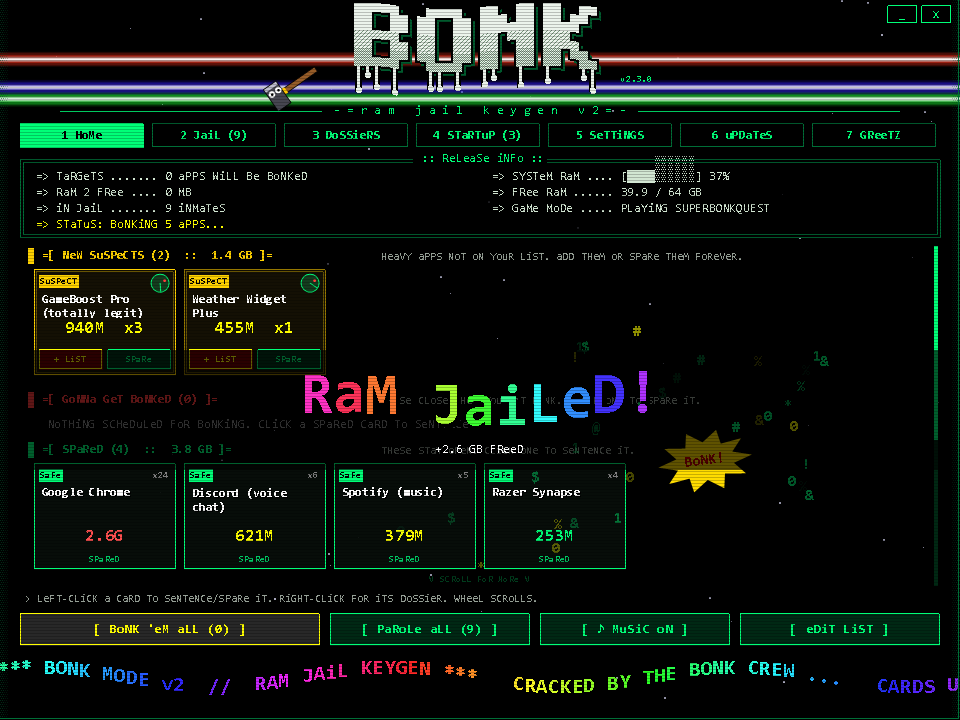
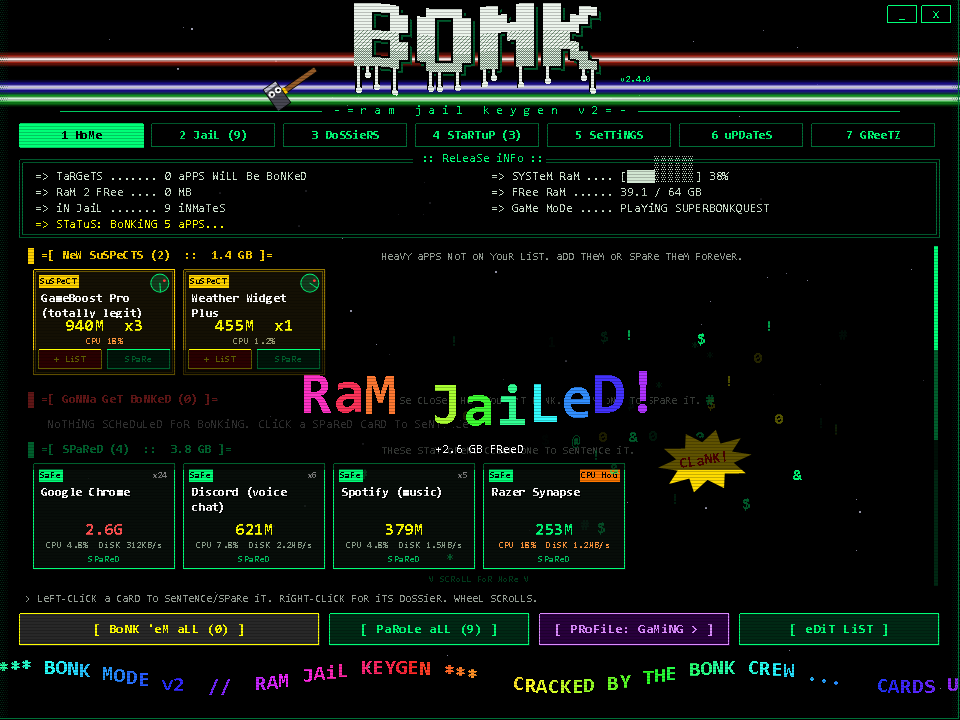
v2.4.0: Profiles, CPU and Disk
Profiles plus CPU/disk awareness and an opt-in turbo power plan.

- Native sampler (OpenProcess with QUERY_LIMITED_INFORMATION,
  GetProcessTimes, GetProcessIoCounters) gives CPU % of machine and disk KB/s
  per app; CPU HOG badge at 8%; radar flags 10%+ CPU.
- Profiles gaming/streaming/work/battery stored in bonk-list.json profiles;
  first visit seeds defaults from the current list.
- Turbo power plan: saves the original scheme to bonk-power.json (gitignored)
  before switching; restores on full parole and on tray start.
- Verified: live sampling on a real machine, profile round trip on an isolated
  copy (gaming -> streaming -> work -> gaming restores exactly).

diff --git a/bonk-ui.cs b/bonk-ui.cs
@@ -347,17 +347,48 @@ namespace BonkMode
         }
     }
 
+    // Per-process CPU time and disk bytes, read with the lightest access right Windows offers.
+    public static class ProcStats
+    {
+        [DllImport("kernel32.dll")] static extern IntPtr OpenProcess(int access, bool inherit, int pid);
+        [DllImport("kernel32.dll")] static extern bool CloseHandle(IntPtr h);
+        [DllImport("kernel32.dll")] static extern bool GetProcessTimes(IntPtr h, out long create, out long exit, out long kernel, out long user);
+        [StructLayout(LayoutKind.Sequential)]
+        struct IoCounters { public ulong ReadOps, WriteOps, OtherOps, ReadBytes, WriteBytes, OtherBytes; }
+        [DllImport("kernel32.dll")] static extern bool GetProcessIoCounters(IntPtr h, out IoCounters c);
+        const int QueryLimited = 0x1000;
+
+        // Fills cpu (100ns units of kernel+user time) and io (bytes read+written); -1 where unreadable.
+        public static void SampleMany(int[] pids, long[] cpu, long[] io)
+        {
+            for (int i = 0; i < pids.Length; i++)
+            {
+                cpu[i] = -1; io[i] = -1;
+                IntPtr h = OpenProcess(QueryLimited, false, pids[i]);
+                if (h == IntPtr.Zero) continue;
+                try
+                {
+                    long c, e, k, u;
+                    if (GetProcessTimes(h, out c, out e, out k, out u)) cpu[i] = k + u;
+                    IoCounters ioc;
+                    if (GetProcessIoCounters(h, out ioc)) io[i] = (long)(ioc.ReadBytes + ioc.WriteBytes);
+                }
+                finally { CloseHandle(h); }
+            }
+        }
+    }
     // ================================================================== model
 
     public class AppInfo
     {
         public string Label, Names, Relaunch;
-        public int MB, Procs, Hash, Number;
+        public int MB, Procs, Hash, Number, Cpu10, IoKB;
         public bool Enabled, Running, Jailed, Suspect;
         public string Proc;
         public RectangleF Rect;
         public float Shake, Flash, Bars, ShownMB, Nervous;
         public List<int> History = new List<int>();
+        public List<int> CpuHistory = new List<int>();
     }
 
     class Inmate
@@ -445,6 +476,8 @@ namespace BonkMode
             new[] { "hammer", "cycle:fast,normal,dramatic", "Hammer speed", "How long each swing takes. Dramatic is very dramatic." },
             new[] { "polite", "cycle:2,4,8", "Polite warning", "Seconds apps get to close nicely before the hammer falls." },
             new[] { "gameMode", "cycle:off,ask,auto", "Auto game mode", "Bonk when a game starts, parole when it quits. Ask = 5 second countdown you can cancel." },
+            new[] { "profile", "cycle:gaming,streaming,work,battery", "Profile", "Each profile remembers its own checkboxes. Streaming spares Discord and OBS; work spares office apps." },
+            new[] { "powerPlan", "bool", "Turbo power plan", "Switch Windows to High performance while bonked; your old plan comes back on parole." },
             new[] { "radar", "bool", "Hog radar", "Flag heavy apps that are not on your list yet. Sweeps every 30 seconds." },
             new[] { "radarMB", "cycle:200,400,800,1500", "Radar threshold", "How much RAM an unlisted app needs before it becomes a suspect." },
             new[] { "autostart", "bool", "Start with Windows", "Put the hammer in the tray at login." },
@@ -552,6 +585,7 @@ namespace BonkMode
             settings["music"] = "True"; settings["volume"] = "60"; settings["sfx"] = "True"; settings["shake"] = "True";
             settings["scanlines"] = "True"; settings["hammer"] = "normal"; settings["polite"] = "4";
             settings["autostart"] = "False"; settings["autoUpdate"] = "True";
+            settings["gameMode"] = "ask"; settings["radar"] = "True"; settings["radarMB"] = "400"; settings["profile"] = "gaming"; settings["powerPlan"] = "False";
 
             if (!NoAudio) { try { audio = new ChipAudio(); } catch { audio = null; } }
             sfxBonk = Synth.Bonk(); sfxClick = Synth.Click(); sfxBlip = Synth.Blip(); sfxWhoosh = Synth.Whoosh();
@@ -617,9 +651,9 @@ namespace BonkMode
 
         public void PreviewUpdate(string remote, string log) { FinishCheck(remote, log, null); }
 
-        public void SetApps(string[] labels, int[] mb, bool[] enabled, bool[] running, bool[] jailed, int[] procs, string[] names, string[] relaunch)
+        public void SetApps(string[] labels, int[] mb, bool[] enabled, bool[] running, bool[] jailed, int[] procs, string[] names, string[] relaunch, int[] cpu10, int[] iokb)
         {
-            if (hammerIdx >= 0) { pending = new object[] { labels, mb, enabled, running, jailed, procs, names, relaunch }; return; }
+            if (hammerIdx >= 0) { pending = new object[] { labels, mb, enabled, running, jailed, procs, names, relaunch, cpu10, iokb }; return; }
             Dictionary<string, AppInfo> old = new Dictionary<string, AppInfo>();
             foreach (AppInfo x in apps) old[x.Label] = x;
             apps.Clear();
@@ -636,7 +670,12 @@ namespace BonkMode
                 a.MB = mb[i]; a.Enabled = enabled[i]; a.Running = running[i];
                 a.Jailed = jailed[i] && !running[i];
                 a.Procs = procs[i]; a.Names = names[i]; a.Relaunch = relaunch[i];
-                if (a.Running) { a.History.Add(a.MB); if (a.History.Count > 72) a.History.RemoveAt(0); }
+                a.Cpu10 = cpu10[i]; a.IoKB = iokb[i];
+                if (a.Running)
+                {
+                    a.History.Add(a.MB); if (a.History.Count > 72) a.History.RemoveAt(0);
+                    a.CpuHistory.Add(a.Cpu10); if (a.CpuHistory.Count > 72) a.CpuHistory.RemoveAt(0);
+                }
                 if (a.Jailed) jailCount++;
                 apps.Add(a);
             }
@@ -743,7 +782,7 @@ namespace BonkMode
             if (pending != null)
             {
                 object[] p = pending; pending = null;
-                SetApps((string[])p[0], (int[])p[1], (bool[])p[2], (bool[])p[3], (bool[])p[4], (int[])p[5], (string[])p[6], (string[])p[7]);
+                SetApps((string[])p[0], (int[])p[1], (bool[])p[2], (bool[])p[3], (bool[])p[4], (int[])p[5], (string[])p[6], (string[])p[7], (int[])p[8], (int[])p[9]);
             }
             else { SyncInmates(); LayoutHome(); }
         }
@@ -758,7 +797,7 @@ namespace BonkMode
             return null;
         }
 
-        public void SetSuspects(string[] procs, string[] labels, int[] mb, int[] count)
+        public void SetSuspects(string[] procs, string[] labels, int[] mb, int[] count, int[] cpu10)
         {
             Dictionary<string, AppInfo> old = new Dictionary<string, AppInfo>();
             foreach (AppInfo x in suspects) old[x.Proc] = x;
@@ -772,7 +811,7 @@ namespace BonkMode
                     a = new AppInfo(); a.Proc = procs[i]; a.Suspect = true; a.Running = true;
                     a.Hash = StableHash(procs[i]); a.Number = 1000 + (a.Hash % 9000); fresh = true;
                 }
-                a.Label = labels[i]; a.MB = mb[i]; a.Procs = count[i]; a.Names = procs[i];
+                a.Label = labels[i]; a.MB = mb[i]; a.Procs = count[i]; a.Names = procs[i]; a.Cpu10 = cpu10[i];
                 suspects.Add(a);
             }
             if (fresh) { radarPing = 0; Play(sfxBlip); }
@@ -1519,9 +1558,7 @@ namespace BonkMode
             Color bonkBg = tCount > 0 && !Busy ? ((int)(t * 4) % 2 == 0 ? Color.FromArgb(150, 0, 0) : Color.FromArgb(210, 40, 0)) : Color.FromArgb(40, 40, 40);
             Button(g, new RectangleF(20, BtnY, 300, 32), Busy ? "[ BoNKiNG... ]" : "[ BoNK 'eM aLL (" + tCount + ") ]", "bonk", bonkBg, Color.Yellow, !Busy);
             Button(g, new RectangleF(330, BtnY, 200, 32), "[ PaRoLe aLL (" + jailCount + ") ]", "parole", Color.FromArgb(0, 40, 20), Green, !Busy);
-            bool musicOn = IsTrue(settings["music"]);
-            string note = ((char)0x266A).ToString();
-            Button(g, new RectangleF(540, BtnY, 190, 32), "[ " + note + " MuSiC " + (musicOn ? "oN" : "oFF") + " ]", "music", Color.FromArgb(0, 40, 20), Green, true);
+            Button(g, new RectangleF(540, BtnY, 190, 32), "[ PRoFiLe: " + Leet(settings.ContainsKey("profile") ? settings["profile"] : "gaming") + " > ]", "set:profile:next", Color.FromArgb(40, 0, 60), Color.FromArgb(220, 140, 255), !Busy);
             Button(g, new RectangleF(740, BtnY, 200, 32), "[ eDiT LiST ]", "edit", Color.FromArgb(0, 40, 20), Green, true);
         }
 
@@ -1563,7 +1600,15 @@ namespace BonkMode
             SizeF cs = g.MeasureString(chip, fTiny);
             g.FillRectangle(B(cc), r.X + 5, r.Y + 5, cs.Width, 13);
             g.DrawString(chip, fTiny, Brushes.Black, r.X + 5, r.Y + 6);
-            if (!jailed) g.DrawString("x" + a.Procs, fTiny, B(Color.Gray), new RectangleF(r.X, r.Y + 6, r.Width - 6, 12), RightAlign());
+            if (!jailed && a.Cpu10 >= 80)
+            {
+                // burning more than 8% of the whole CPU
+                SizeF hs = g.MeasureString("CPU HoG", fTiny);
+                Color hc = (int)(t * 5) % 2 == 0 ? Color.FromArgb(255, 120, 0) : Red;
+                g.FillRectangle(B(hc), r.Right - hs.Width - 6, r.Y + 5, hs.Width, 13);
+                g.DrawString("CPU HoG", fTiny, Brushes.Black, r.Right - hs.Width - 6, r.Y + 6);
+            }
+            else if (!jailed) g.DrawString("x" + a.Procs, fTiny, B(Color.Gray), new RectangleF(r.X, r.Y + 6, r.Width - 6, 12), RightAlign());
 
             RectangleF nr = new RectangleF(r.X + 6, r.Y + 22, r.Width - 12, 40);
             g.DrawString(a.Label, fName, Brushes.Black, new RectangleF(nr.X + 1, nr.Y + 1, nr.Width, nr.Height), sfWrap);
@@ -1572,7 +1617,8 @@ namespace BonkMode
             if (!jailed)
             {
                 Color mbc = a.MB >= 1024 ? Color.FromArgb(255, 80, 80) : a.MB >= 300 ? Color.Yellow : Green;
-                g.DrawString(FormatShort(a.ShownMB), fTileBig, B(mbc), new RectangleF(r.X, r.Y + 62, r.Width, 22), sfCenter);
+                g.DrawString(FormatShort(a.ShownMB), fTileBig, B(mbc), new RectangleF(r.X, r.Y + 56, r.Width, 22), sfCenter);
+                g.DrawString("CPU " + FormatCpu(a.Cpu10) + "  DiSK " + FormatIo(a.IoKB), fTiny, B(a.Cpu10 >= 80 ? Color.FromArgb(255, 150, 60) : Color.FromArgb(140, 160, 140)), new RectangleF(r.X, r.Y + 76, r.Width, 12), sfCenter);
             }
             else g.DrawString(Leet("serving time"), fTiny, B(Color.FromArgb(200, 200, 210)), new RectangleF(r.X, r.Y + 64, r.Width, 18), sfCenter);
 
@@ -1614,7 +1660,8 @@ namespace BonkMode
             RectangleF nr = new RectangleF(r.X + 6, r.Y + 22, r.Width - 12, 26);
             g.DrawString(a.Label, fName, B(Color.White), nr, sfWrap);
             Color mbc = a.MB >= 1024 ? Color.FromArgb(255, 80, 80) : Color.Yellow;
-            g.DrawString(FormatShort(a.MB) + "  x" + a.Procs, fTileBig, B(mbc), new RectangleF(r.X, r.Y + 48, r.Width, 22), sfCenter);
+            g.DrawString(FormatShort(a.MB) + "  x" + a.Procs, fTileBig, B(mbc), new RectangleF(r.X, r.Y + 46, r.Width, 22), sfCenter);
+            if (a.Cpu10 > 0) g.DrawString("CPU " + FormatCpu(a.Cpu10), fTiny, B(a.Cpu10 >= 100 ? Color.FromArgb(255, 150, 60) : Color.FromArgb(160, 160, 120)), new RectangleF(r.X, r.Y + 66, r.Width, 12), sfCenter);
         }
 
         void DrawSuspectButtons(Graphics g, AppInfo a, RectangleF r, Rectangle area)
@@ -1912,6 +1959,7 @@ namespace BonkMode
             fy = Field(g, "STaTuS", stat, fx, fy, wText, s.Running ? Green : Color.Gray);
             fy = Field(g, "SeNTeNCe", sentence, fx, fy, wText, s.Enabled ? Red : Green);
             fy = Field(g, "RaM NoW", s.Running ? FormatSize(s.MB) : "0 MB", fx, fy, wText, Color.Yellow);
+            fy = Field(g, "CPU / DiSK", s.Running ? FormatCpu(s.Cpu10) + " oF YouR CPU  ::  " + FormatIo(s.IoKB) + " DiSK" : "-", fx, fy, wText, s.Cpu10 >= 80 ? Color.FromArgb(255, 150, 60) : Color.FromArgb(200, 210, 200));
             fy = Math.Max(fy, mug.Bottom + 6);
             fy = Field(g, "aLiaSeS", s.Names, fx, fy, panel.Width - 32, Color.FromArgb(200, 210, 200));
             fy = Field(g, "PaRoLe PLaN", s.Relaunch, fx, fy, panel.Width - 32, Color.FromArgb(200, 210, 200));
@@ -1921,7 +1969,7 @@ namespace BonkMode
             Rectangle chart = new Rectangle(panel.X + 16, panel.Bottom - 104, panel.Width - 32, 50);
             g.FillRectangle(B(Color.FromArgb(10, 20, 14)), chart);
             g.DrawRectangle(P(DimGreen), chart);
-            g.DrawString(Leet("ram history (live while this window is open)"), fTiny, B(Color.Gray), chart.X, chart.Y - 12);
+            g.DrawString(Leet("ram (green) and cpu (orange) history, live while this window is open"), fTiny, B(Color.Gray), chart.X, chart.Y - 12);
             if (s.History.Count > 1)
             {
                 int max = 1; foreach (int v in s.History) max = Math.Max(max, v);
@@ -1930,6 +1978,15 @@ namespace BonkMode
                     pts[i] = new PointF(chart.X + 2 + i * (chart.Width - 4f) / (s.History.Count - 1), chart.Bottom - 3 - s.History[i] * (chart.Height - 6f) / max);
                 g.DrawLines(P(Green), pts);
                 g.DrawString(FormatShort(max) + " PeaK", fTiny, B(Green), chart.Right - 64, chart.Y + 2);
+                if (s.CpuHistory.Count > 1)
+                {
+                    int cmax = 10; foreach (int v in s.CpuHistory) cmax = Math.Max(cmax, v);
+                    PointF[] cp = new PointF[s.CpuHistory.Count];
+                    for (int i = 0; i < cp.Length; i++)
+                        cp[i] = new PointF(chart.X + 2 + i * (chart.Width - 4f) / (s.CpuHistory.Count - 1), chart.Bottom - 3 - s.CpuHistory[i] * (chart.Height - 6f) / cmax);
+                    g.DrawLines(P(Color.FromArgb(255, 150, 60)), cp);
+                    g.DrawString("CPU " + FormatCpu(cmax) + " PeaK", fTiny, B(Color.FromArgb(255, 150, 60)), chart.Right - 64, chart.Y + 14);
+                }
             }
             else g.DrawString(Leet(s.Running ? "collecting samples..." : "nothing to chart. it's asleep."), fTiny, B(Color.Gray), chart.X + 6, chart.Y + 18);
 
@@ -2486,6 +2543,10 @@ namespace BonkMode
         {
             return mb >= 1024 ? (mb / 1024).ToString("0.0", Inv) + "G" : ((int)Math.Round(mb)).ToString(Inv) + "M";
         }
+
+        static string FormatCpu(int cpu10) { return (cpu10 / 10.0).ToString(cpu10 >= 100 ? "0" : "0.0", Inv) + "%"; }
+
+        static string FormatIo(int kb) { return kb >= 1024 ? (kb / 1024.0).ToString("0.0", Inv) + "MB/s" : kb + "KB/s"; }
 
         static string Initials(string label)
         {

diff --git a/README.md b/README.md
@@ -46,6 +46,10 @@ Every app on your list gets a card with its **full name**, live RAM, and process
 
 **Left-click** a card to sentence or spare it. **Right-click** for its dossier. Hover for the full process list.
 
+Every card also shows **CPU** (as a share of your whole machine) and **disk** activity, and anything burning more than 8% of your CPU gets a flashing **CPU HOG** badge.
+
+**Profiles:** the purple **PROFILE** button flips between **gaming**, **streaming** (spares Discord, OBS and Spotify), **work** (spares Teams, Slack, Zoom and browsers, bonks game launchers) and **battery** (bonks nearly everything). Each profile remembers its own checkboxes.
+
 ### The bonk
 
 ![Bonk animation](screenshots/bonk.png)
@@ -168,7 +172,9 @@ Everything is inside the app on screen **5**, and every change saves instantly.
 | Hammer speed | Fast, normal, or **dramatic**. Dramatic is very dramatic. |
 | Polite warning | 2, 4 or 8 seconds for apps to close nicely before the hammer. |
 | Auto game mode | **Off**, **ask** (5 second countdown you can cancel) or **auto**. |
-| Hog radar | Flag heavy apps that aren't on your list. |
+| Profile | Gaming, streaming, work or battery. Each keeps its own checkboxes. |
+| Turbo power plan | Off by default. High performance while bonked, your own plan back on parole. A crash can't strand you on it. |
+| Hog radar | Flag heavy apps (RAM or 10%+ CPU) that aren't on your list. |
 | Radar threshold | 200, 400, 800 or 1500 MB before an app becomes a suspect. |
 | Start with Windows | Hammer in the tray at login. |
 | Check for updates | Looks for a new release on GitHub on open and every 6 hours. |
@@ -233,6 +239,11 @@ None of these close anything:
 ---
 
 ## 📜 Version history
+
+### v2.4.0 · Profiles, CPU and disk
+- Gaming, streaming, work and battery profiles that remember their own checkboxes.
+- CPU and disk on every card, CPU HOG badges, CPU line on the dossier chart, radar catches CPU hogs.
+- Opt-in turbo power plan while bonked, crash-safe restore.
 
 ### v2.3.0 · Startup Jail
 - New Startup screen: jail apps from launching at login with Windows' own switch. Nothing deleted, fully reversible.

diff --git a/CHANGELOG.md b/CHANGELOG.md
@@ -1,5 +1,12 @@
 # Bonk Mode changelog
 
+## v2.4.0 - Profiles, CPU and Disk
+- Profiles: gaming, streaming, work and battery. Each remembers its own checkboxes. The first visit seeds sensible defaults: streaming spares Discord, OBS and Spotify; work spares Teams, Slack, Zoom and your browsers and sentences game launchers; battery sentences nearly everything. Switch from the purple PROFILE button on Home, Settings, or the tray menu.
+- Every card now shows CPU (as a share of your whole machine) and disk activity. Anything burning more than 8% of the CPU gets a flashing CPU HOG badge.
+- Dossiers show CPU and disk, and the live chart draws CPU (orange) on top of RAM (green).
+- Hog Radar now also flags apps chewing 10% or more of the CPU, even when their RAM is small.
+- Turbo power plan (opt-in): Windows switches to High performance while you're bonked and back to your own plan on parole. The original plan is saved first, so a crash can't strand you; it's restored the next time the tray starts.
+
 ## v2.3.0 - Startup Jail
 - New STARTUP screen (key 4): every app that launches when you log in, from both Run keys, the 32-bit Run key and both Startup folders, with how heavy it is right now.
 - Click STARTS to jail an app from startup, click JAILED to parole it back. It uses Windows' own StartupApproved switch, the same one Task Manager's Startup tab uses, so nothing is ever deleted and Task Manager shows the same state.

diff --git a/ROADMAP.md b/ROADMAP.md
@@ -15,11 +15,12 @@ This is the plan, not a promise. Order may change. Ideas welcome in [Issues](htt
 | v2.1.0 | Auto Game Mode | Bonks when a game starts, paroles when it quits |
 | v2.2.0 | Hog Radar | Flags heavy apps that are not on your list yet |
 | v2.3.0 | Startup Jail | Stop apps from launching at login, fully reversible |
+| v2.4.0 | Profiles, CPU and disk | Gaming/streaming/work/battery profiles, CPU hogs, turbo power plan |
 
 ## 🔜 Next up
 
-### v2.4.0 · Profiles, CPU and disk
-Gaming, Streaming (keeps Discord and OBS), Work and Battery profiles. CPU and disk hog detection, not just RAM. Optional High Performance power plan while bonked.
+### v2.6.0 · Solitary Confinement
+Apps that sneak back up after a bonk get thrown straight back in, and you'll see how many escape attempts they made.
 
 ### v2.5.0 · Hotkeys, Stream Deck and stats
 `Ctrl+Alt+B` to bonk from inside a game. Command-line switches for Stream Deck buttons. Lifetime stats, achievements, and a hall of shame for repeat offenders.
